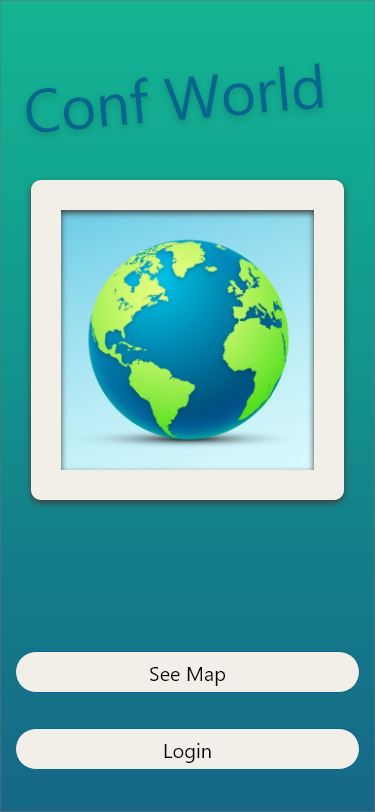
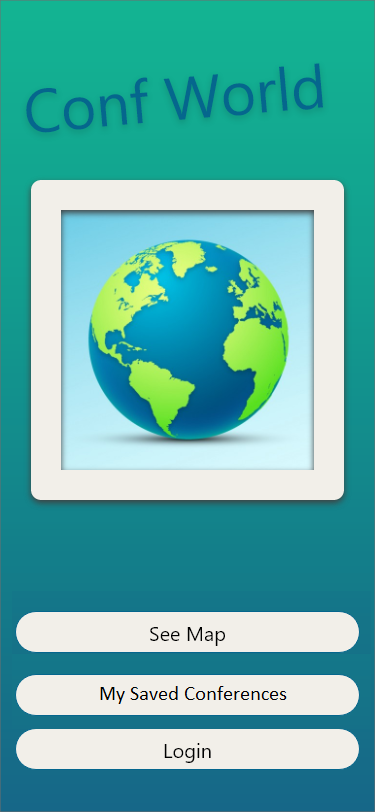
Review all report and update one mockup

Changed region(s): [[0.0293, 0.7389, 0.968, 0.8929]]

diff --git a/docs/README.md b/docs/README.md
@@ -2,8 +2,6 @@
 
 Welcome to the documentation pages of the *Conf World* of **openCX**!
 
-You can find here detailed about the (sub)product, hereby mentioned as module, from a high-level vision to low-level implementation decisions, a kind of Software Development Report (see [template](https://github.com/softeng-feup/open-cx/blob/master/docs/templates/Development-Report.md)), organized by discipline (as of RUP): 
-
 * Business modeling 
   * [Product Vision](#Product-Vision)
   * [Elevator Pitch](#Elevator-Pitch)
@@ -44,10 +42,6 @@ Have you ever felt that most conference finding apps struggle at keeping up with
 ---
 ## Requirements
 
-In this section, you should describe all kinds of requirements for your module: functional and non-functional requirements.
-
-Start by contextualizing your module, describing the main concepts, terms, roles, scope and boundaries of the application domain addressed by the project.
-
 ### Use Case Diagram 
 ![Use Case Diagram](img/use-case.png)
 #### Save Conference
@@ -55,17 +49,12 @@ Start by contextualizing your module, describing the main concepts, terms, roles
 
 * **Description**. The user may be more interested in some conferences than others. Thus he is capable of saving conferences.
 
-* **Preconditions and Postconditions**. Before saving conferences the user should be logged in. After saving the conference, it will appear in the map with a yellow pinpoint.
+* **Preconditions and Postconditions**. After saving the conference, it will appear in the map with a yellow pinpoint.
 
 * **Normal Flow**. 
     1. The user presses one conference on the map.
     2. The user presses the save conference button which appears next to the conference website hyperlink.
-    3. If the user is logged in, the conference is saved.
-
-* **Exception**. 
-    1. The user presses one conference on the map
-    2. The user presses the save conference button which appears next to the conference website hyperlink.
-    3. The user isn't logged in, an error message will appear
+    3. The conference is saved.
 
 #### See Map
 * **Actor**. User
@@ -89,31 +78,28 @@ Start by contextualizing your module, describing the main concepts, terms, roles
 
     ##### Conference Type
 
-    * **Preconditions**.
+    * **Preconditions**. The user should press the button Filter by Type.
 
     * **Normal Flow**.
         1. The user selects the option that shows the conference types.
-        2. On the map, only conferences occurring between these two dates will appear.
+        2. On the map, the user will only see the conferences of that type.
             
     ##### Date
 
-    * **Preconditions**. Before filtering by date, the user should press the button to filter conferences.
+    * **Preconditions**. The user should press the button Filter by Date.
     
     * **Normal Flow**. 
         1. The user scrolls the sidebar, selecting the start and deadline date.
-        2. On the map, only conferences that occur between these two dates will appear. 
+        1. The user selects the button Apply Date Filter.
+        1. On the map, only conferences that occur between these two dates will appear. 
         
     ##### Saved Conferences
 
-    * **Preconditions**. Before filtering by saved conferences the user should be logged in and have at least one saved conference.
-
+    * **Preconditions**. The user should press the button Saved Conferences.
     * **Normal Flow**.
         1. The user selects the option to only show the saved conferences.
-        1. If the user is logged in, only the saved conferences will appear on the map.
+        1. Only the saved conferences will appear on the map.
 
-    * **Exception Flow**. 
-        1. The user selects the option to only show the saved conferences.
-        3. If the user isn't logged in or doesn't have any saved conference, nothing will happen.
 
 ### User stories
 
@@ -297,9 +283,9 @@ Scenario:
 *As a user, I want to view my previously saved conferences.*
 
 **User interface mockups**.
-| Filter Conferences  |
-| ------------ |
-| ![Save](./img/mockups/filter-conference.png)|
+| Main Menu | Filter Conferences  |
+| ------------- | ------------ |
+| ![Main Menu](./img/mockups/main-menu.png) | ![Save](./img/mockups/filter-conference.png)|
 
 **Acceptance tests**.
 ```gherkin
@@ -340,7 +326,7 @@ Scenario:
 Scenario:
   Given I am on the Saved Conferences menu
   When I tap one conference
-  Then I will be redirected to the conference on map
+  Then I will be redirected to the conference details on the map
 ```
 
 
@@ -406,7 +392,7 @@ Scenario:
 
 The concepts regarding our application are quite simple. Our app consists of conferences spread around the World `Map` and the user has filtering tools at his disposal that allow him to find the most fitting conferences. Each `Conference` is represented on the world map by a `Marker`.
 
-Once the user has opened the `Map`, it will render on a certain `latitude` and `longitude`, have some `Markers`, and each one represents one `Conference`. 
+Once the user has opened the `Map`, it will render on a certain `latitude` and `longitude`, have some `Markers`, and each represents one `Conference`. 
 Also, the user can just look for specific conferences. In this case, he will apply a `Filter` to the world map, but just one filter can be applied for the whole map at a time. The user can see the map without filters, seeing all the available conferences, or instead the user can filter by `Date`, by `Saved` conferences or by `Type`, but just one at a time.
 
 ---
@@ -426,12 +412,11 @@ In order to develop this project, we decided to organize and structure our code 
 * Model
 
 
-The Controller processes the received information from user actions. These actions triggers changes both in the view (for example, changing the the current screen displayed) and in the model (for example, when the user saves a conference).
+The Controller processes the received information from user actions. These actions trigger changes both in the view (for example, changing the current screen displayed) and in the model (for example, when the user saves a conference).
 
 Our View is responsible for the concrete display of the app to the user. It renders our widgets and different pages, like the homepage on the smartphone screen.
 
-The Model contains all the application data. It represents stored entities managed by the controller, such as a Conference.
-
+The Model contains all the application data. It represents stored entities managed by the controller. In our case, it represents the conferences.
 
 
 ### Physical architecture
@@ -505,11 +490,11 @@ Sprint Effort: L
 Sprint Effort: L
 
 #### Fourth Sprint
-## User Story 4
-### As a user I want to select a timespan, so that I can see all available conferences in that timespan.
-* I can select a timespan to search for conferences
+##### User Story 4
+##### As a user I want to select a timespan, so that I can see all available conferences in that timespan.
+* The user can select a timespan to search for conferences.
 
-## Miscellaneous
+##### Miscellaneous
 - Conferences are scrapped from the webpage [Call 4 Papers](www.call4papers.com)
 - Implemented Gherkin Acceptance Tests
 - Finished Unit Tests
@@ -520,9 +505,9 @@ Sprint Effort: L
 ---
 ## Test
 
-To ensure the application is working properly, we have decided to add Unit Tests and automated acceptance tests using gherkin.
+To ensure the application is working properly, we have decided to add unit tests and automated acceptance tests using gherkin.
 
-We used the [github issues](https://github.com/FEUP-ESOF-2020-21/open-cx-t2g1-2b-2b/issues?q=is%3Aissue+is%3Aclosed+label%3A%22Unit+Tests%22) to organize our project. If you want to see our implementation of user stories you can click [here](https://github.com/FEUP-ESOF-2020-21/open-cx-t2g1-2b-2b/issues?q=is%3Aissue+label%3A%22user+stories%22+is%3Aclosed) and see the issues that map for every user story.
+We used the github issues to organize our project. If you want to see our implementation of user stories you can click [here](https://github.com/FEUP-ESOF-2020-21/open-cx-t2g1-2b-2b/issues?q=is%3Aissue+is%3Aclosed) and choose the label `User Stories` to see the issues that map for every user story.
 
 Unit Tests are used to verify the expected output after the user interacts with the application and have been implemented using the `flutter_test` dependency.
 
@@ -530,7 +515,7 @@ Acceptance Tests are used to verify the expected output through statements that 
 
 Both these tests involve a large ammount of work, however, they provide a long-term benefit to the project, making it easier to detect bugs in the future.
 
-Implemented acceptance tests:
+Implemented acceptance tests and their respective user story:
   - Conference Details - [User Story 3](https://github.com/FEUP-ESOF-2020-21/open-cx-t2g1-2b-2b/issues/4)
   - Filter Conferences By Type - [User Story 5](https://github.com/FEUP-ESOF-2020-21/open-cx-t2g1-2b-2b/issues/5)
   - Open World Map - [User Story 1](https://github.com/FEUP-ESOF-2020-21/open-cx-t2g1-2b-2b/issues/1)
@@ -538,7 +523,7 @@ Implemented acceptance tests:
 This acceptance tests where implemented in this [pull request](https://github.com/FEUP-ESOF-2020-21/open-cx-t2g1-2b-2b/pull/35).
 
 Implemented Unit Tests:
-  - See World Map
+  - See World Map 
   - See Saved Conferences
   - Filter Conferences Button
   - Filter Conferences by Type
@@ -580,6 +565,6 @@ For this project, we are using Github Projects. You can see our board using the 
   
 ---
 
-## Evolution - contributions to open-cx
+## Evolution - Contributions to open-cx
 
-We feel that our app can integrate the Open-CX in the future, helping everyone to find conferences around the world that can fit in their schedules and be combined with other projects to create an app that improves the user experience in conferences and events.
+We feel that our app can integrate the Open-CX in the future, helping everyone finding conferences around the world that can fit in their schedules, combining it with other projects.
